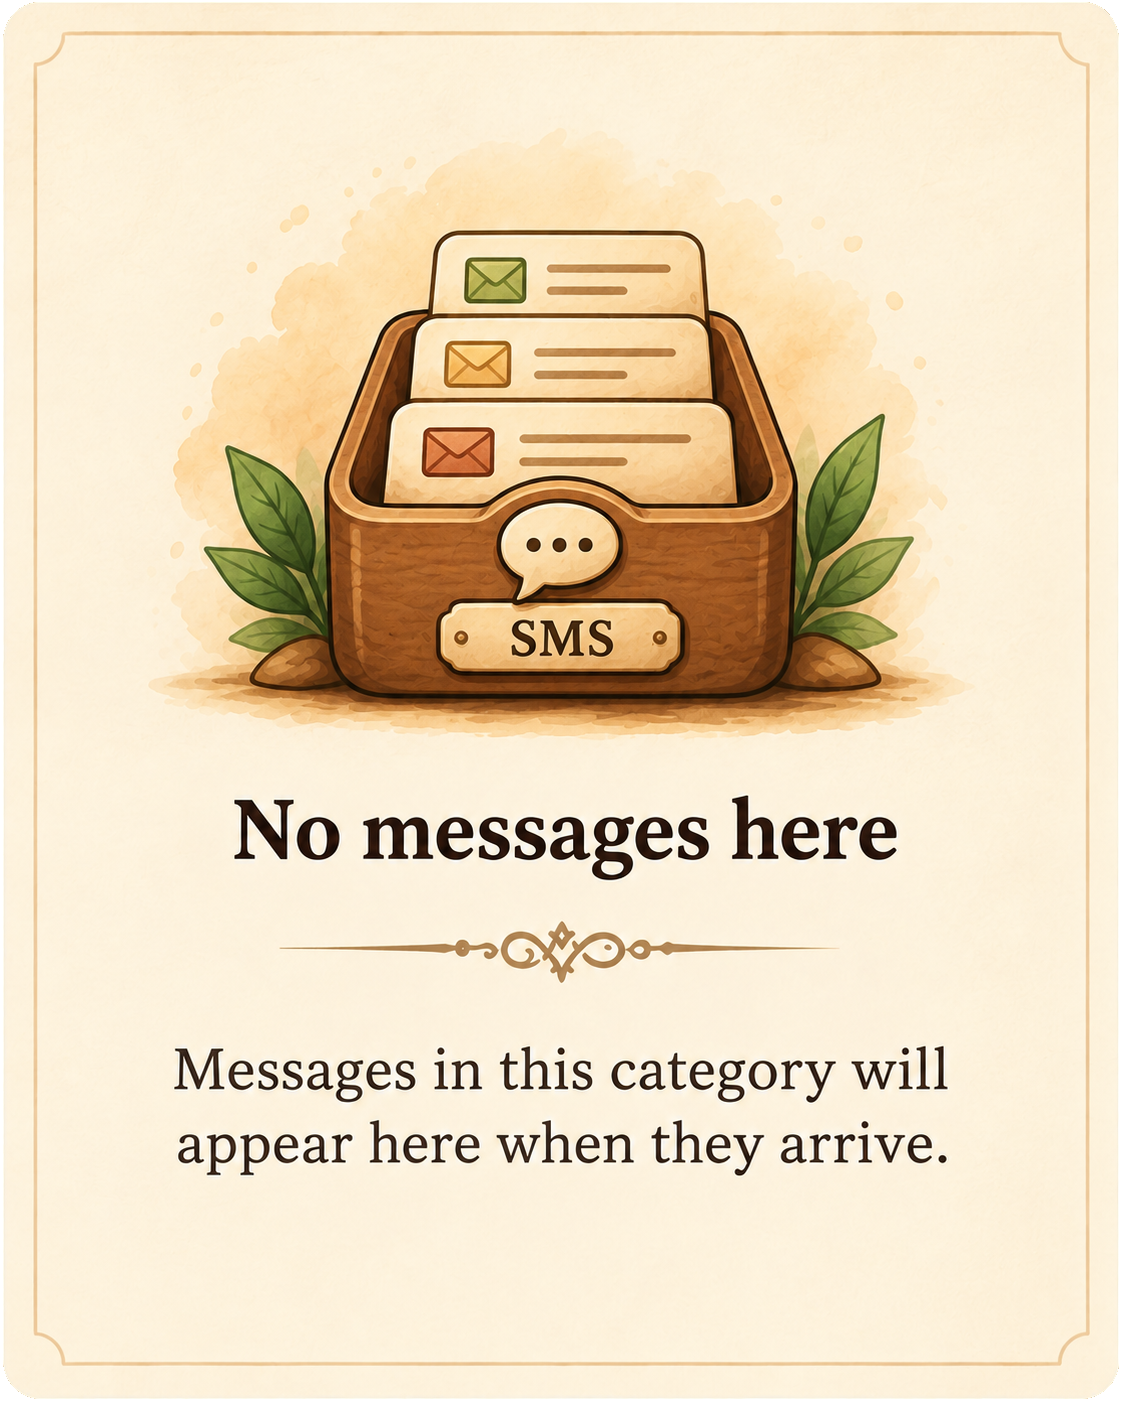
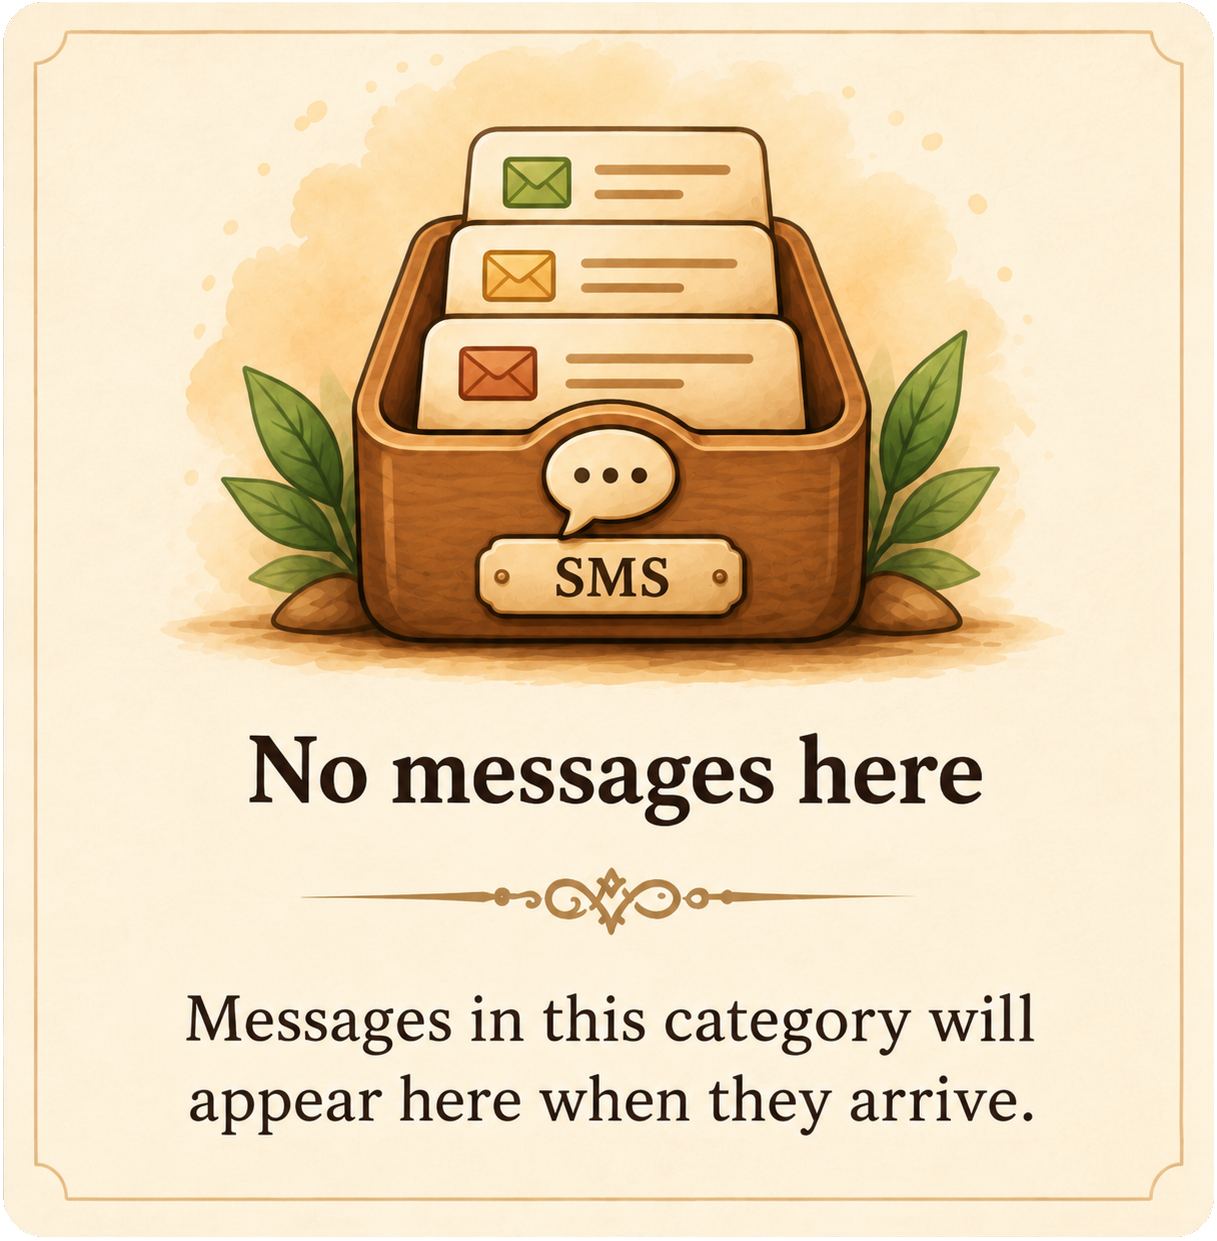
Refine Learning Centre ordering, chart interactions and empty-state artwork

diff --git a/ui/learning.js b/ui/learning.js
@@ -73,7 +73,7 @@ function learningRecognition(m){
 }
 function learningHome(){const remaining=learningRows('all').length,identified=messages.length-remaining,pct=messages.length?Math.round(identified/messages.length*100):0;
  const stat=(action,value,label)=>'<button class="secondary" data-learning="'+action+'"><b>'+value.toLocaleString('en-IN')+'</b><small>'+label+'</small></button>';
- return '<section class="card learning-home"><p class="muted">Help SMSAnalyzer learn from your corrections</p><div class="learning-overview"><section class="learn-progress"><div class="split"><strong>Training Progress</strong><b>'+pct+'%</b></div><progress value="'+identified+'" max="'+(messages.length||1)+'" aria-label="Identified SMS progress"></progress><p class="learn-progress-caption">'+identified.toLocaleString('en-IN')+' of '+messages.length.toLocaleString('en-IN')+' loaded SMS identified · automatic tags and saved corrections</p><div class="learn-stats">'+stat('pending',remaining,'To review')+stat('identified',identified,'Identified')+'</div></section></div><div class="dialog-actions learning-manage-actions">'+learnButton('manageRules','Rules')+learnButton('manageAccounts','Accounts')+learnButton('manageCategories','Categories')+'</div></section>';}
+ return '<section class="card learning-home"><p class="muted">Help SMSAnalyzer learn from your corrections</p><div class="learning-overview"><section class="learn-progress"><div class="split"><strong>Training Progress</strong><b>'+pct+'%</b></div><progress value="'+identified+'" max="'+(messages.length||1)+'" aria-label="Identified SMS progress"></progress><p class="learn-progress-caption">'+identified.toLocaleString('en-IN')+' of '+messages.length.toLocaleString('en-IN')+' loaded SMS identified · automatic tags and saved corrections</p><div class="learn-stats">'+stat('pending',remaining,'To review')+stat('identified',identified,'Identified')+'</div></section></div><div class="dialog-actions learning-manage-actions">'+learnButton('manageAccounts','Accounts')+learnButton('manageCategories','Categories')+learnButton('manageRules','Rules')+'</div></section>';}
 function learningRecordList(){const identified=learning.bucket==='identified'||learning.bucket==='tagged',rows=learning.bucket==='tagged'?messages.filter(m=>learningCategoryValueMatches(m,learning.selectedCategory)):learningRows(identified?'identified':'all');return '<section class="card"><div class="split"><h2>'+(learning.bucket==='tagged'?trainingCategoryName(learning.selectedCategory)+' SMS':identified?'Identified SMS':'SMS to review')+'</h2><b>'+rows.length.toLocaleString('en-IN')+'</b></div><p class="muted">'+(identified?'Automatically identified and reviewed SMS. Open a message to correct its classification.':'Only messages that still need a decision are listed here.')+'</p></section>'+rows.slice(0,learning.limit).map(m=>'<section class="card learning-record">'+(identified?smsListActionRow(m,'<button class="icon bevel category-review-edit" data-learning="openRecord" data-key="'+recordKey(m)+'" aria-label="Edit SMS category">'+ic('edit')+'</button>'):'')+trainingSnippet(m)+(identified?learningStatusLabel(m):'<div class="dialog-actions single-action">'+learnButton('openRecord','Review SMS',true,'data-key="'+recordKey(m)+'"')+'</div>')+'</section>').join('')+(rows.length>learning.limit?learnButton('moreRecords','Load 20 more'):'')+(!rows.length?emptyListImage():'');}
 
 function learningOpen(key,bucket=learning.bucket){const rows=learningRows(bucket),m=messages.find(m=>recordKey(m)===key)||rows.find(m=>!learningReviewed(m))||rows[0];if(!m){toast('Nothing left to review in this group. Use Identified to correct an existing classification.');return;}learning.bucket=bucket;learning.key=recordKey(m);learning.editId=null;learning.quickCorrection=false;learning.step='review';learning.remember=true;learning.history=true;learning.excluded=new Set();learning.choice=bucket==='duplicate'?'duplicate':isSelfTransfer(m)?'own':m.isInvestment?'category':m.credit>0?(m.incomeType==='salary'?'salary':/refund|reversal/i.test(m.body)?'refund':'income'):m.transferKind==='own'?'own':!m.debit?'ignore':bucket==='recurring'?'recurring':bucket==='recipient'?'recipient':m.isEcommerce||bucket==='category'?'category':'payment';learning.category=m.customCategoryId||(m.isInvestment?'topic:13':m.isEcommerce?'topic:4':m.debit>0?String(m.spendGroup):[3,4,5,6,8,9,10,12,13,15].includes(m.group)?'topic:'+m.group:'');if(learning.choice==='duplicate')learning.remember=false;learning.extraKeys=new Set();learning.draft=null;learning.mergedEntry=null;learning.duplicateKey=learningDuplicateCandidates(m)[0]?recordKey(learningDuplicateCandidates(m)[0]):null;render();}

diff --git a/ui/training.js b/ui/training.js
@@ -53,7 +53,7 @@ function trainingButton(action,label,extra='',primary=false){return '<button cla
 function smsListActionRow(m,edit,due=false){return '<div class="sms-notice-actions">'+(due?calendarPill('Due '+date(m.due)):'<span aria-hidden="true"></span>')+edit+'</div>';}
 function trainingSnippet(m,full=false,includeDate=true){const dueAmount=isBillDueNotice(m)?billNoticeAmount(m.body):0;return '<div class="training-sms" data-sms-key="'+recordKey(m)+'"><div><strong>'+esc(m.payee?.label||m.source.label)+'</strong><b'+(dueAmount?' class="bill-due-amount"':'')+'>'+(dueAmount?money(dueAmount):learningValue(m)?flowMoney(learningValue(m),learningFlow(m)):'—')+'</b></div><small>'+(includeDate?smsDateTime(m.date)+' · ':'')+(m.credit>0?'Incoming · ':m.debit>0?'Outgoing · ':'')+esc(m.source.label)+(m.sourceAccount?' · ••'+esc(m.sourceAccount):'')+'</small><p>'+esc(full?m.body:m.body.slice(0,340))+(!full&&m.body.length>340?'…':'')+'</p></div>';}
 function trainingRuleTitle(rule){if(rule.type==='recipient')return rule.name;if(rule.type==='learning')return rule.name||'Learned rule';if(rule.type==='search')return rule.name||'Matching SMS';if(rule.type==='duplicate')return 'Duplicate alerts';return 'Payment correction';}
-function legacyTrainingPage(){const tabs=[['recipients','Recipients'],['accounts','My accounts'],['rules','Rules'],['categories','Categories']];if(!tabs.some(([key])=>key===trainingTab))trainingTab='rules';return '<div class="training-tabs" role="group" aria-label="Training sections">'+tabs.map(([key,label])=>'<button data-training-tab="'+key+'" aria-pressed="'+(trainingTab===key)+'">'+label+'</button>').join('')+'</div>'+smsDisclaimer('Rules stay on this phone. Original SMS are never edited.')+trainingManagementBody();}
+function legacyTrainingPage(){const tabs=[['accounts','Accounts'],['categories','Categories'],['rules','Rules'],['recipients','Recipients']];if(!tabs.some(([key])=>key===trainingTab))trainingTab='rules';return '<div class="training-tabs" role="group" aria-label="Training sections">'+tabs.map(([key,label])=>'<button data-training-tab="'+key+'" aria-pressed="'+(trainingTab===key)+'">'+label+'</button>').join('')+'</div>'+smsDisclaimer('Rules stay on this phone. Original SMS are never edited.')+trainingManagementBody();}
 function trainingCategoryName(value){value=canonicalTrainingCategory(value);if(String(value).startsWith('action:'))return trainingActionCategories.find(([v])=>v===String(value).slice(7))?.[1]||'Automatic';if(String(value).startsWith('topic:'))return groupNames[Number(value.slice(6))]||'Automatic';const c=training.categories.find(c=>c.id===value);return c?c.name:spendNames[Number(value)]||'Automatic';}
 const trainingActionCategories=[['payment','Actual expense'],['own','Self-transfer'],['salary','Salary'],['refund','Refund / reversal'],['income','Income / credit'],['others','Others'],['ignore','Not a transaction'],['duplicate','Duplicate SMS notification'],['recipient','Recipient identity'],['recurring','Recurring payment']];
 function trainingCategoryOptions(value='',review=false){

diff --git a/ui/category-picker.js b/ui/category-picker.js
@@ -21,7 +21,7 @@ function openCategoryPicker(kind){categoryPickerOrigin=document.activeElement;cl
  if(kind==='emoji'){drawCategoryEmoji();pane.querySelector('[role=tab][aria-selected=true]').focus();}else{setCategoryColourInputs(categoryEditor.color);bindColourSpectrum(pane);pane.querySelector('.colour-spectrum-panel').focus();}
 }
 function drawCategoryEmoji(more=false){const groups=categoryEmojiGroups,q=document.querySelector('#category-emoji-search').value.trim().toLowerCase(),selected=q?groups:[groups[categoryPickerGroup]],rows=selected.flatMap(([name,items])=>items.filter(([emoji,label])=>!q||q.split(/\s+/).every(word=>(name+' '+label+' '+emoji).toLowerCase().includes(word))).map(([emoji,label])=>({name,emoji,label}))),pane=document.querySelector('.category-emoji-scroll'),scroll=pane.scrollTop;
- pane.innerHTML='<h3>'+esc(q?'Search results':groups[categoryPickerGroup][0])+'</h3><div class="category-emoji-grid">'+rows.slice(0,categoryEmojiLimit).map(r=>'<button data-category-emoji="'+esc(r.emoji)+'" aria-label="'+esc(r.label)+'" title="'+esc(r.label)+'">'+r.emoji+'</button>').join('')+'</div>'+(rows.length>categoryEmojiLimit?'<button class="secondary" data-category-emoji-more>Show more</button>':'')+(!rows.length?'<p>No matching emoji.</p>':'');pane.scrollTop=more?scroll:0;}
+ pane.innerHTML='<h3>'+esc(q?'Search results':groups[categoryPickerGroup][0])+'</h3><div class="category-emoji-grid">'+rows.slice(0,categoryEmojiLimit).map(r=>'<button data-category-emoji="'+esc(r.emoji)+'" aria-label="'+esc(r.label)+'" title="'+esc(r.label)+'">'+r.emoji+'</button>').join('')+'</div>'+(rows.length>categoryEmojiLimit?'<button class="secondary load-more-control" data-category-emoji-more><img class="load-more-icon" src="assets/load-more-wood.png" alt="">Load more</button>':'')+(!rows.length?'<p>No matching emoji.</p>':'');pane.scrollTop=more?scroll:0;}
 function setCategoryColourInputs(value,fromSpectrum=false){if(!fromSpectrum)categorySpectrum=hexToSpectrum(value,categorySpectrum.h);document.querySelector('#picker-colour-hex').value=value.toUpperCase();document.querySelector('#picker-colour-preview').style.background=value;for(let i=0;i<3;i++){const n=parseInt(value.slice(1+i*2,3+i*2),16);document.querySelector('#picker-channel-'+i).value=n;document.querySelector('#picker-output-'+i).textContent=n;}document.querySelector('#picker-error').textContent='';drawColourSpectrum();}
 
 // One shared HSV surface for every category colour picker; edits stay pending until Use this theme.

diff --git a/ui/app.js b/ui/app.js
@@ -3,7 +3,7 @@
 document.addEventListener('click',e=>{for(const menu of document.querySelectorAll('.duration[open]'))if(!menu.contains(e.target))menu.open=false;},true);
 document.addEventListener('keydown',e=>{if(e.key==='Escape')for(const menu of document.querySelectorAll('.duration[open]'))menu.open=false;});
 // Aniruddha DuttaChowdhury · ADChowdhury · app.adc.smsanalyzer
-const APP_VERSION="0.1.152";
+const APP_VERSION="0.1.155";
 const paths={billDue:'M4 2h10l5 5v8M14 2v6h5M4 2v20h10M8 11h6M8 15h5M8 19h3M17 16h5v6h-5zM18 16v-1a1.5 1.5 0 0 1 3 0v1',otpMessages:'M3 4h15v12H9l-4 4v-4H3V4M7 9h.01M11 9h.01M15 9h.01M18 7h3v12h-3l-3 3v-3h-3',spamShield:'M12 2 3 6v6c0 5 9 10 9 10s9-5 9-10V6l-9-4M12 7v6M12 17h.01',plus:'M12 4v16M4 12h16',save:'M4 3h13l4 4v14H3V3h1M7 3v6h10V3M7 21v-8h10v8',preview:'M3 2h10l5 5v4M13 2v6h5M3 2v20h10M7 11h6M7 15h3M7 19h4M21 21l-4-4M19 14a5 5 0 1 0-10 0 5 5 0 0 0 10 0',messageSquareText:'M21 15a2 2 0 0 1-2 2H7l-4 4V5a2 2 0 0 1 2-2h14a2 2 0 0 1 2 2v10M7 7h10M7 11h7',teach:'M3 4h6a4 4 0 0 1 3 1 4 4 0 0 1 3-1h6v15h-6a4 4 0 0 0-3 1 4 4 0 0 0-3-1H3V4m9 1v15M6 8h3m-3 4h3m6-4h3m-3 4h3',edit:'M4 16l-1 5 5-1L20 8l-4-4L4 16M14 6l4 4M4 16l4 4',help:"M9 8a3 3 0 1 1 4 2.83L12 12v2M12 17h.01M12 2a10 10 0 1 0 0 20 10 10 0 0 0 0-20",bell:'M18 8a6 6 0 0 0-12 0c0 7-3 7-3 9h18c0-2-3-2-3-9M10 21h4',home:'M3 11 12 3l9 8M5 10v11h5v-7h4v7h5V10',message:'M4 3h16v14H9l-5 4V3m4 5h8m-8 4h6',settings:'M9 3h6l1 3 3 1 2 5-2 5-3 1-1 3H9l-1-3-3-1-2-5 2-5 3-1 1-3m3 5a4 4 0 1 0 0 8 4 4 0 0 0 0-8',back:'m15 4-8 8 8 8',chart:'M4 20V10m8 10V4m8 16v-7M2 21h20',category:'M3 3h7v7H3zM14 3h7v7h-7zM3 14h7v7H3zM14 14h7v7h-7z',shield:'m12 2 9 4v6c0 5-9 10-9 10S3 17 3 12V6l9-4m-4 10 3 3 5-6',users:'M8 11a4 4 0 1 0 0-8 4 4 0 0 0 0 8M2 21v-3a6 6 0 0 1 12 0v3m2-17a4 4 0 0 1 0 8m1 3a5 5 0 0 1 5 5v1',refresh:'M20 9a8 8 0 1 0 0 7m0-13v6h-6',trash:'M3 6h18M9 6V3h6v3M5 6l1 15h12l1-15M10 10v7m4-7v7',mail:'M3 5h18v14H3zM3 5l9 8 9-8',phone:'M6 3h4l1 5-3 2a14 14 0 0 0 6 6l2-3 5 1v4c0 4-9 2-14-3S2 3 6 3',connect:'M5 10v11m0-17v1m5 16V10m0 5c0-6 9-6 9 0v6',check:'m5 12 4 4L19 6',info:'M12 8h.01M12 11v6m0-15a10 10 0 1 0 0 20 10 10 0 0 0 0-20',lock:'M5 10h14v11H5zM8 10V6a4 4 0 0 1 8 0v4m-4 4v3',search:'M10 3a7 7 0 1 0 0 14 7 7 0 0 0 0-14m5 12 6 6'};
 paths.chevronDown='m6 9 6 6 6-6';
 const linkedInArt='<rect x="2" y="2" width="20" height="20" rx="3"/><path d="M7 10v7m0-10v.1M11 17v-7m0 3c0-4 6-4 6 0v4"/>';

diff --git a/ui/styles.css b/ui/styles.css
@@ -595,7 +595,7 @@ header .icon[data-go="settings"] .settings-gear-art{display:block;width:32px;hei
 
 /* Static ranked category bars; five visible rows with the remainder in this chart's scroll area. */
 .category-share-row{flex-shrink:0;cursor:default}.category-share-row:active{filter:none;transform:none;box-shadow:none}
-.category-share-scroll{max-height:240px;overflow-y:auto;overscroll-behavior-y:contain;scrollbar-width:thin;scrollbar-color:#a98657 #eeeae2;padding-right:5px}
+.category-share-scroll{max-height:240px;overflow-y:auto;overscroll-behavior-y:auto;scrollbar-width:thin;scrollbar-color:#a98657 #eeeae2;padding-right:5px}
 .category-share-scroll::-webkit-scrollbar{width:4px}.category-share-scroll::-webkit-scrollbar-thumb{background:#a98657;border-radius:4px}
 /* Keep disclaimer contents and surfaces; unify only their amber borders. */
 .transfer-disclaimer,[data-screen=alerts] .alert-section-note,.spending-summary .previous-disclaimer{border:1px solid #d29342;border-left-width:3px}
@@ -671,3 +671,5 @@ dialog:not(#analysis-overlay)>.dialog-heading{margin:calc(-1 * var(--popup-inset
 .empty-list-art{width:100%;margin:10px 0 0;padding:0}.empty-list-art img{display:block;width:100%;height:auto}.card .empty-list-art,dialog .empty-list-art{margin-top:0}.empty:has(.empty-list-art){padding:0}.empty-list-art~.empty-list-art{margin-top:12px}
 
 .empty-list-art+aside.analysis-disclaimer{margin-top:4px}
+
+.trend-tap-value{display:block;padding:6px 0;color:inherit;font-size:11px}.trend-tap-value:empty{display:none}

diff --git a/ui/trends.js b/ui/trends.js
@@ -34,3 +34,6 @@ document.addEventListener('click',e=>{
  for(const item of plot.querySelectorAll('[data-trend-series]')){const shown=!hidden.has(item.dataset.trendSeries);item.setAttribute('aria-pressed',String(shown));item.setAttribute('aria-label',(shown?'Hide ':'Show ')+item.dataset.trendSeries);}
  main.scrollTop=scroll;
 });
+
+// Tap a chart line/point to read its nearest plotted value without changing zoom.
+document.addEventListener('click',e=>{const svg=e.target.closest('.multi-series-chart');if(!svg)return;const point=svg.createSVGPoint();point.x=e.clientX;point.y=e.clientY;const local=point.matrixTransform(svg.getScreenCTM().inverse());const dots=[...svg.querySelectorAll('circle')];let nearest=null,distance=Infinity;for(const dot of dots){const d=Math.hypot(local.x-dot.cx.baseVal.value,local.y-dot.cy.baseVal.value);if(d<distance){nearest=dot;distance=d;}}if(!nearest||distance>35)return;let output=svg.parentElement.querySelector('.trend-tap-value');if(!output){output=document.createElement('output');output.className='trend-tap-value';output.setAttribute('aria-live','polite');svg.after(output);}output.textContent=nearest.querySelector('title')?.textContent||'';});
